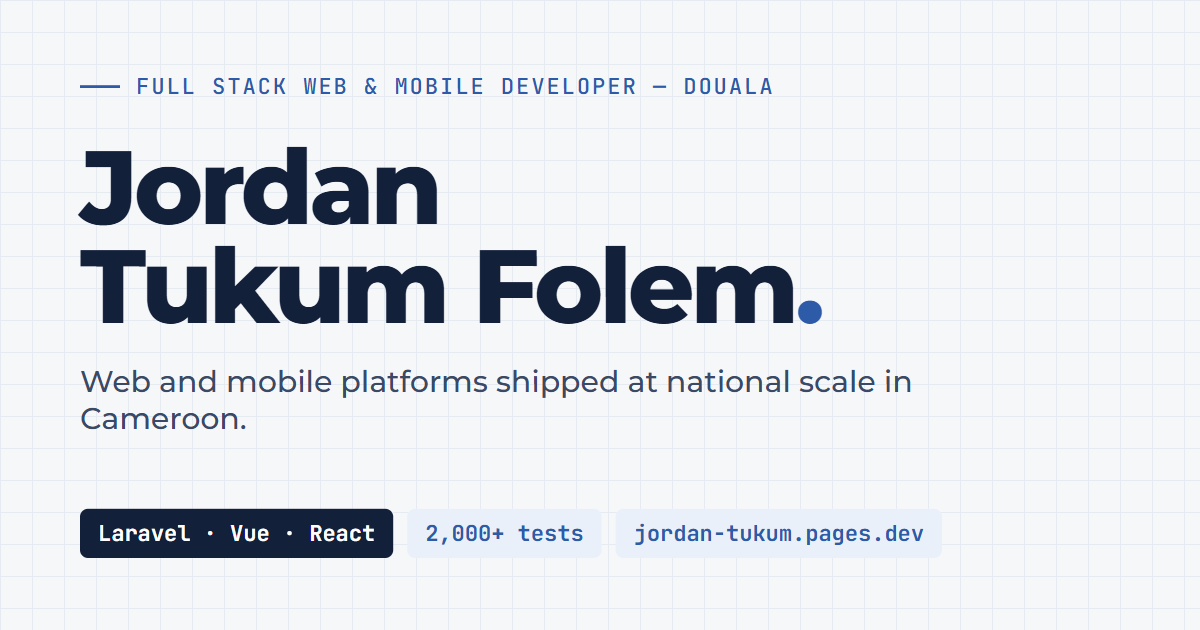
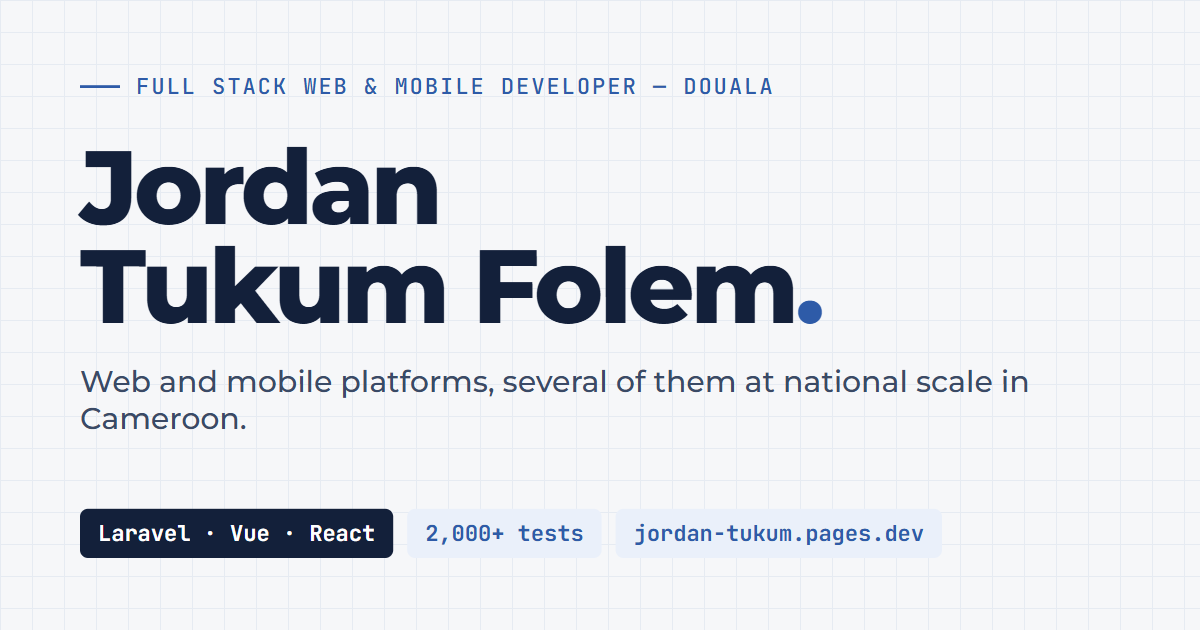
fix: align portfolio claims with the evidence
- SERVICES PUBLICS: replace the unbacked PHPUnit quality item with its
  three deployment environments (Bitbucket Pipelines)
- EQUIP4SAFETY: "represented within the CCAA delegation", not "presented"
- value proposition: web and mobile platforms, several of them at
  national scale (mobile work was not national-scale); OG images redone
- station-deployment badge attributed to CAMRAIL; compliance client
  described as the CEMAC banking sector

Pinned by six new unit tests.

Changed region(s): [[0.4008, 0.573, 0.8633, 0.6333]]

diff --git a/content/projects.ts b/content/projects.ts
@@ -64,7 +64,7 @@ export const projects: Project[] = [
     },
     quality: [
       { value: same('≈ 900'), label: { fr: 'Commits depuis 2023', en: 'Commits since 2023' } },
-      { value: same('PHPUnit'), label: { fr: 'Tests unitaires et fonctionnels', en: 'Unit and feature tests' } },
+      { value: same('3'), label: { fr: 'Environnements : test, pré-production, production', en: 'Environments: test, pre-production, production' } },
       { value: same('Docker'), label: { fr: 'Environnements conteneurisés', en: 'Containerised environments' } },
     ],
     result: { fr: 'En production sur services-publics.cm.', en: 'In production at services-publics.cm.' },
@@ -87,7 +87,7 @@ export const projects: Project[] = [
     },
     stack: ['Tauri 2', 'Nuxt 4', 'Nitro', 'Laravel', 'Inertia'],
     badges: [
-      { tone: 'live', label: { fr: 'Déployé en gares', en: 'Deployed in stations' } },
+      { tone: 'live', label: { fr: 'CAMRAIL : déployé en gares', en: 'CAMRAIL: deployed in stations' } },
       { tone: 'proof', label: { fr: 'Matériel + logiciel', en: 'Hardware + software' } },
     ],
     links: [],
@@ -205,8 +205,8 @@ export const projects: Project[] = [
     role: lead,
     period: { fr: 'déc. 2025 — 2026', en: 'Dec 2025 — 2026' },
     organisation: {
-      fr: 'Établissements bancaires de la zone CEMAC · réalisé chez ADWA SARL',
-      en: 'Banks in the CEMAC zone · delivered at ADWA SARL',
+      fr: 'Secteur bancaire de la zone CEMAC · réalisé chez ADWA SARL',
+      en: 'Banking sector, CEMAC zone · delivered at ADWA SARL',
     },
     stack: ['Nuxt 4', 'TypeScript', 'Zod', 'PrimeVue', 'Vitest'],
     badges: [
@@ -312,11 +312,11 @@ export const projects: Project[] = [
     quality: [
       { value: { fr: 'Démo', en: 'Demo' }, label: { fr: 'Publique et en ligne', en: 'Public and online' } },
       { value: { fr: 'OACI', en: 'ICAO' }, label: { fr: 'États membres visés', en: 'Member states targeted' } },
-      { value: same('2025'), label: { fr: 'Présenté à l’AFI Aviation Week', en: 'Presented at AFI Aviation Week' } },
+      { value: same('2025'), label: { fr: 'Délégation CCAA à l’AFI Aviation Week', en: 'CCAA delegation at AFI Aviation Week' } },
     ],
     result: {
-      fr: 'Démo publique en ligne sur demo.equip4safety.org ; projet présenté lors de l’AFI Aviation Week 2025.',
-      en: 'Public demo live at demo.equip4safety.org; the project was presented at AFI Aviation Week 2025.',
+      fr: 'Démo publique en ligne sur demo.equip4safety.org ; projet représenté au sein de la délégation de la CCAA à l’AFI Aviation Week 2025.',
+      en: 'Public demo live at demo.equip4safety.org; the project was represented within the CCAA delegation at AFI Aviation Week 2025.',
     },
   },
   {

diff --git a/content/profile.ts b/content/profile.ts
@@ -7,12 +7,12 @@ export const profile: Profile = {
   title: { fr: 'Développeur Full Stack Web & Mobile', en: 'Full Stack Web & Mobile Developer' },
   location: { fr: 'Douala, Cameroun', en: 'Douala, Cameroon' },
   valueProp: {
-    fr: 'Je conçois, teste et mets en production des plateformes web et mobiles utilisées à l’échelle nationale — pour des ministères, la CAMRAIL, le Port Autonome de Douala et l’Autorité Aéronautique du Cameroun.',
-    en: 'I design, test and ship web and mobile platforms used at national scale — for government ministries, CAMRAIL, the Port of Douala and the Cameroon Civil Aviation Authority.',
+    fr: 'Je conçois, teste et mets en production des plateformes web et mobiles — dont plusieurs à l’échelle nationale, pour des ministères, la CAMRAIL, le Port Autonome de Douala et l’Autorité Aéronautique du Cameroun.',
+    en: 'I design, test and ship web and mobile platforms — several of them at national scale, for government ministries, CAMRAIL, the Port of Douala and the Cameroon Civil Aviation Authority.',
   },
   valuePropShort: {
-    fr: 'Je conçois, teste et mets en production des plateformes web et mobiles utilisées à l’échelle nationale.',
-    en: 'I design, test and ship web and mobile platforms used at national scale.',
+    fr: 'Je conçois, teste et mets en production des plateformes web et mobiles, dont plusieurs à l’échelle nationale.',
+    en: 'I design, test and ship web and mobile platforms, several of them at national scale.',
   },
   email: 'jtukum@outlook.com',
   phone: '+237 698 377 389',

diff --git a/tests/unit/content.test.ts b/tests/unit/content.test.ts
@@ -115,3 +115,36 @@ describe('content', () => {
     expect(cvPath('en')).toBe('/cv/CV_Jordan_TUKUM_FOLEM_EN.pdf')
   })
 })
+
+describe('claims backed by evidence (final review)', () => {
+  const sp = getProject('services-publics')!
+  const e4s = getProject('equip4safety')!
+  const kiosk = getProject('bornes-libre-service')!
+  const ewa = getProject('conformite-bancaire')!
+
+  it('does not credit SERVICES PUBLICS with a test suite its repo does not have', () => {
+    expect(strings(sp.quality).filter(s => /PHPUnit|tests unitaires|unit and feature/i.test(s))).toEqual([])
+  })
+
+  it('says EQUIP4SAFETY was represented within the CCAA delegation, not presented at AFI', () => {
+    expect(strings(e4s).filter(s => /\b(présenté|presented)/i.test(s))).toEqual([])
+  })
+
+  it('does not claim mobile platforms at national scale', () => {
+    for (const text of [profile.valueProp, profile.valuePropShort]) {
+      expect(text.fr).toContain('dont plusieurs')
+      expect(text.en).toContain('several of them')
+    }
+  })
+
+  it('attributes the station deployment to CAMRAIL, not to the multi-service kiosk', () => {
+    const live = kiosk.badges.find(b => b.tone === 'live')!
+    expect(live.label.fr).toMatch(/^CAMRAIL/)
+    expect(live.label.en).toMatch(/^CAMRAIL/)
+  })
+
+  it('describes the compliance client as the banking sector, not as several banks', () => {
+    expect(ewa.organisation.fr).not.toMatch(/Établissements/)
+    expect(ewa.organisation.en).not.toMatch(/^Banks/)
+  })
+})

diff --git a/scripts/og-template.html b/scripts/og-template.html
@@ -28,7 +28,7 @@
 <script>
   const en = location.hash === '#en'
   document.getElementById('eyebrow').textContent = en ? 'Full Stack Web & Mobile Developer — Douala' : 'Développeur Full Stack Web & Mobile — Douala'
-  document.getElementById('lead').textContent = en ? 'Web and mobile platforms shipped at national scale in Cameroon.' : 'Des plateformes web et mobiles livrées à l’échelle nationale au Cameroun.'
+  document.getElementById('lead').textContent = en ? 'Web and mobile platforms, several of them at national scale in Cameroon.' : 'Des plateformes web et mobiles, dont plusieurs à l’échelle nationale au Cameroun.'
   document.getElementById('tests').textContent = en ? '2,000+ tests' : '2 000+ tests'
 </script>
 </body>

diff --git a/tests/unit/i18n.test.ts b/tests/unit/i18n.test.ts
@@ -26,3 +26,10 @@ describe('i18n locale files', () => {
     expect(empty).toEqual([])
   })
 })
+
+describe('SEO description wording', () => {
+  it('does not claim mobile platforms at national scale', () => {
+    expect((fr as { seo: { homeDescription: string } }).seo.homeDescription).toContain('dont plusieurs')
+    expect((en as { seo: { homeDescription: string } }).seo.homeDescription).toContain('several of them')
+  })
+})
